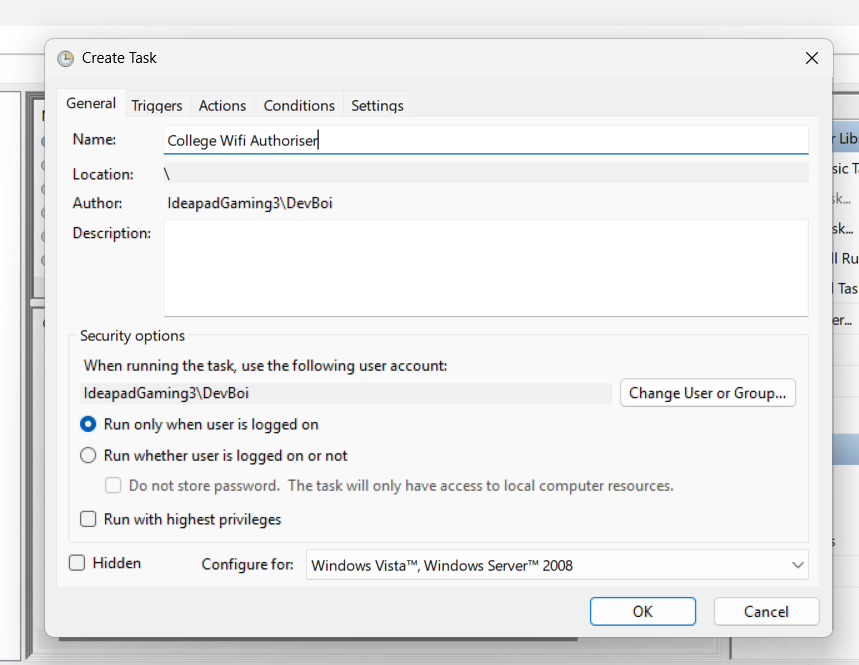
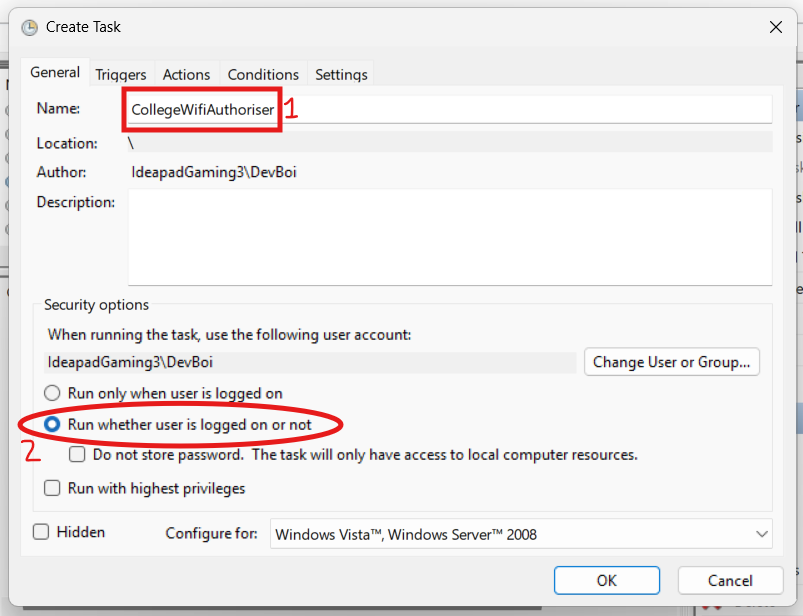
Documentation update

diff --git a/README.md b/README.md
@@ -31,9 +31,9 @@ These are passed as command-line arguments when the task runs.
 1. Open **Task Scheduler**
 ![Task Scheduler](screenshots/image.png)
 
-2. Create a **New Task**, name it anything you like.
+2. Create a **New Task**, name it anything you like. Check "Start before logging in" so that the tool can authorise the wifi even before you enter your password.
 ![Create task](screenshots/image-1.png)
-![Task Name](screenshots/image-2.png)
+![Task Name and start before logging in](screenshots/image-2.png)
 
 3. Fill in the following:
     #### **Triggers tab**
